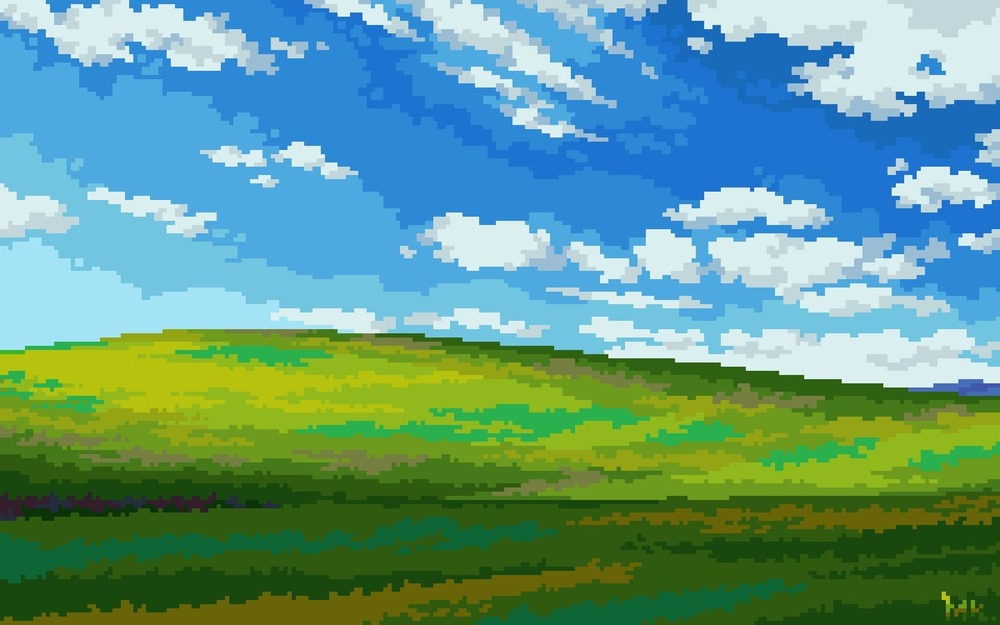
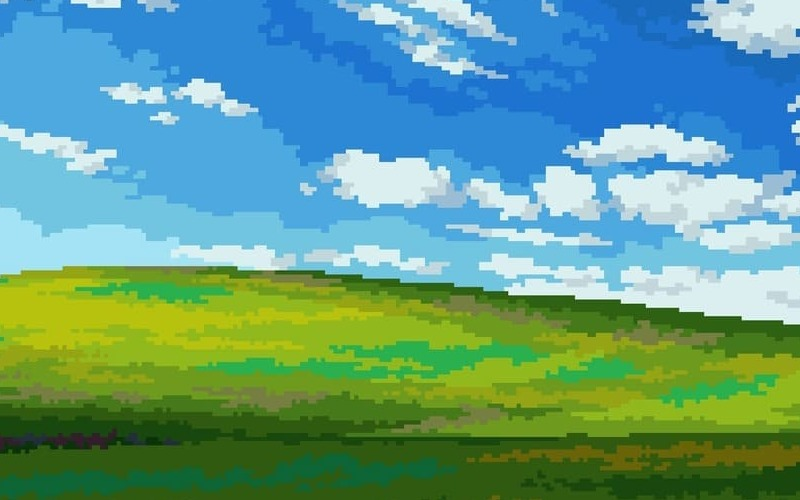
chore: minor improvements
* Compress image

* Defer loading of `app.js` for improved performance

* Add `x-cloak` directive for improved visibility handling

* Reduce even more the size of the image

diff --git a/resources/views/site/pages/layout/site.blade.php b/resources/views/site/pages/layout/site.blade.php
@@ -118,6 +118,7 @@
                 }
             }
         }"
+            x-cloak
             x-show="visible"
             x-transition
             @scroll.window.throttle.25ms="handleScroll"
@@ -140,6 +141,6 @@
 
     @stack('scripts')
 
-    <script src="{{ Vite::asset('resources/js/app.js') }}" type="module"></script>
+    <script defer src="{{ Vite::asset('resources/js/app.js') }}" type="module"></script>
 </body>
 </html>
